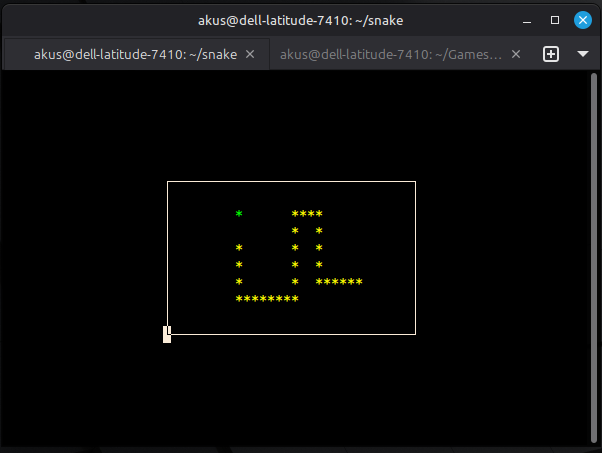
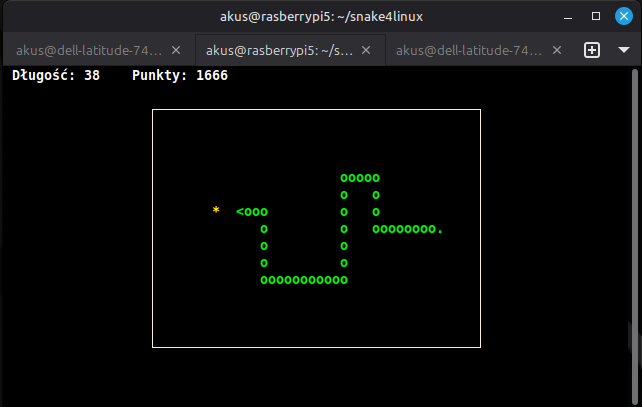
Snake new look, head is showing the movement direction

diff --git a/snake.cpp b/snake.cpp
@@ -60,7 +60,7 @@ void zapis_ustawien (konf **ustawienia);
 // gra
 void gra (konf ** ustawienia);
 void generuj_weza(snake **waz);
-void rysuj_weza(WINDOW * okno_gra, snake **waz, konf ** ustawienia);
+void rysuj_weza(WINDOW * okno_gra, snake **waz, konf ** ustawienia, char kierunek);
 int sprawdz_weza(snake ** waz);
 int przesun_weza(snake ** waz ,snake ** los ,char kierunek, konf ** ustawienia);
 int koniec_gry(WINDOW * okno_gra, snake ** waz, konf ** ustawienia);
@@ -799,7 +799,7 @@ if( (*ustawienia)->wysokosc > wiersze - 1)
   wattrset(okno_gra, COLOR_PAIR(8));
   box (okno_gra,0,0);
   
-  rysuj_weza(okno_gra,&waz,ustawienia);
+  rysuj_weza(okno_gra,&waz,ustawienia,kierunek);
   rysuj_los(okno_gra,&los,ustawienia);
   wrefresh(okno_gra);
 
@@ -898,18 +898,37 @@ void generuj_weza(snake **waz)
 
 //----------------------------------------------------------------------
 
-void rysuj_weza(WINDOW * okno_gra, snake **waz, konf ** ustawienia)
+void rysuj_weza(WINDOW * okno_gra, snake **waz, konf ** ustawienia, char kierunek)
 {
+ char symbol_glowy;
  init_pair(4,(*ustawienia)->kolor_weza,COLOR_BLACK);
  wattrset(okno_gra,COLOR_PAIR(4)); 	 
  wattron(okno_gra,A_BOLD);
  snake * tmpx = *waz;
  if (tmpx == NULL) return;
- // Przejdź do głowy
+ // Przejdź do głowy węża
  while(tmpx->head != NULL)
   tmpx = tmpx->head;
- // Rysowanie GŁOWY
- mvwprintw(okno_gra, tmpx->y, tmpx->x, "O");
+ // Wybór symbolu głowy w zależności od kierunku
+ switch (kierunek)
+ {
+  case 'l':
+   symbol_glowy = '<';
+   break;
+  case 'p':
+   symbol_glowy = '>';
+   break;
+  case 'd':
+   symbol_glowy = 'V';
+   break;
+  case 'g':
+  default:
+   symbol_glowy = '^';
+   break;
+ }
+ // RYSOWANIE GŁOWY (brakowało tej linii):
+ mvwaddch(okno_gra, tmpx->y, tmpx->x, symbol_glowy);
+ // Przejście do segmentów ciała
  tmpx = tmpx->tail;
  // Rysowanie TUŁOWIA i OGONA
  while(tmpx != NULL)
@@ -917,12 +936,12 @@ void rysuj_weza(WINDOW * okno_gra, snake **waz, konf ** ustawienia)
   if (tmpx->tail == NULL)
   {
    // OGON
-   mvwprintw(okno_gra, tmpx->y, tmpx->x, ".");
+   mvwaddch(okno_gra, tmpx->y, tmpx->x, '.');
   }
   else
   {
    // TUŁÓW
-   mvwprintw(okno_gra, tmpx->y, tmpx->x, "o");
+   mvwaddch(okno_gra, tmpx->y, tmpx->x, 'o');
   }
   tmpx = tmpx->tail;
  }
